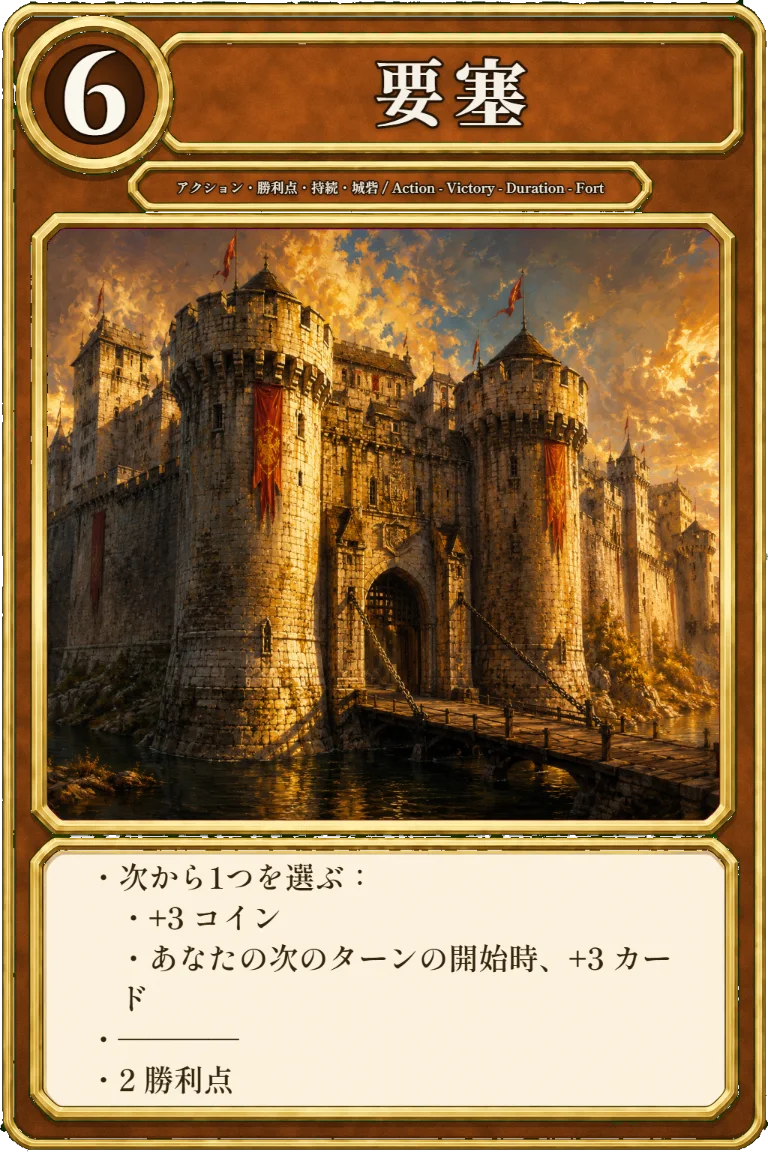
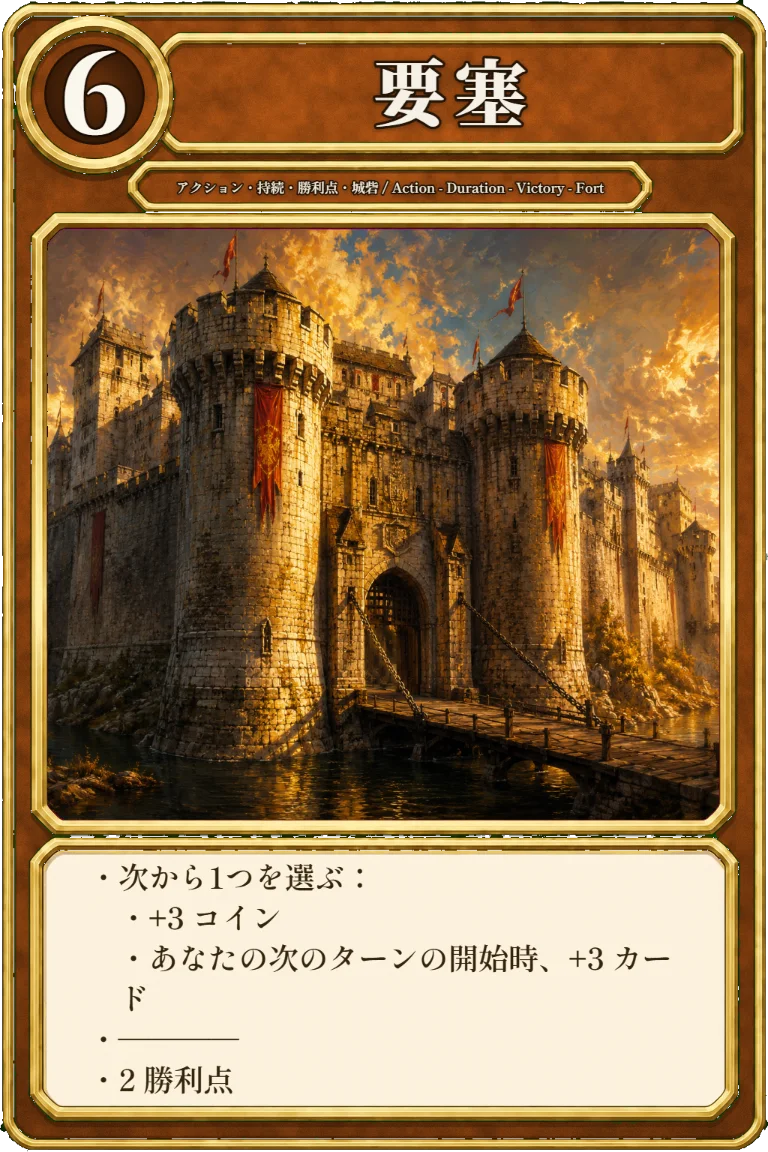
fix: §0-40 の宿題を完済（hoard の二重登録／メイソン団の2度目シャッフル／駿馬×長老／錬金術のセット名／要塞の種別順）
日本語名50件の統一（前コミット）に続き、§0-40「未対応」に積んでいた残り5件を全部片付けた。

1. **`hoard`（隠し財産）の二重登録を解消**＝`POOLS.promo` から外した。**繁栄のカードでプロモではない**ので
   `random-promo` と mix の抽選母集団に混ざっていた（13→12）。固定セット promo-pack / promo-events は
   kingdom に直書きなので従来どおり出る。

2. **`revealFromDeck` がメイソン団の「2度目のシャッフル禁止」を守っていなかった**
   （公式FAQ＝`you only shuffle one time, even if Order of Masons put some cards back in your discard pile.`）。
   `draw()` と同じ **`noMoreShuffle` 契約**に揃えた＝**農村／占い師／熟練工／山師・ペテン師／家臣 の7経路が同時に直る**。
   ⚠ 最初の回帰テストは**バグを戻しても緑のまま**だった（新旧で最終的な捨て札が同じになる組み方）。
     **好意の消費数（新1個／旧2個）とメイソン団のログ回数**で差が出る形に作り直し、バグ注入 2/2 検出を確認。

3. **駿馬(Courser)を長老(Elder)の対象にした**（公式＝英語wiki `Elder` の対象一覧に載る）。
   「異なる2つを選ぶ」カードなので**長老つきなら3つ**選べる＝engine の受理枚数・CPU の提案・
   UI の見出しと選択上限の**4面を同時に**直した（見出しが「2つ」のままだと人間が詰む）。バグ注入 3/3 検出。
   ⚠ 汎用の `ELDER_CHOICE_ORDER` は choose-**one** 用なので使えない＝自前 reducer に `pd.elder` を持たせた。

4. **`alchemy` の CARD_SET 表示名**＝「錬金術セット（第二版）」→「錬金術セット」（錬金術に第2版は無い）。

5. **要塞(Stronghold) の種別順**＝`['action','victory','duration','fort']` → `['action','duration','victory','fort']`
   （公式順）。表示が「アクション・持続・勝利点・城砦」になったので **webp を焼き直した**。

⚠ `harem` は **「ハーレム」のまま据え置き**と決めた。`Farm` は Dominion Online とドイツの別アート版だけで、
   Donald X. 逐語＝`someday it may replace Harem in Intrigue`＝**印刷版の陰謀はまだハーレム**
   （日本語wiki の陰謀の一覧も「ハーレム」）。本プロジェクトの「現行＝印刷済み最新」方針に従う。

検証: npm test 全50スイート緑（exit 0・整合性5859・同盟 514→523・未実装33種UI 110→115・新プロモ 165→167）／
ステージ済みツリー（Codex 差分抜き）でも全50スイート緑／CPUソーク 54ゲーム・23,395ステップ・問題0
[…]

diff --git a/js/cards.js b/js/cards.js
@@ -1096,7 +1096,7 @@
                  text: '+2 コイン\nこのターン、あなたがカード1枚を獲得するとき、ここにトークン1枚を加える。\nあなたの次のターンの開始時、この上のトークンをすべて取り除き、取り除いたトークン1枚につき +1 カード。' },
     hill_fort: { id: 'hill_fort', name: '堡塁', cost: 5, types: ['action', 'fort'],
                  text: 'コスト4以下のカード1枚を獲得する。次から1つを選ぶ：\n・それをあなたの手札に加える\n・+1 カード と +1 アクション' },
-    stronghold: { id: 'stronghold', name: '要塞', cost: 6, types: ['action', 'victory', 'duration', 'fort'], vp: 2,
+    stronghold: { id: 'stronghold', name: '要塞', cost: 6, types: ['action', 'duration', 'victory', 'fort'], vp: 2, // 公式の種別順＝Action-Duration-Victory-Fort
                  text: '次から1つを選ぶ：\n・+3 コイン\n・あなたの次のターンの開始時、+3 カード\n————\n2 勝利点' },
     // --- 叙事詩（odysseys）の分割山＝古地図$3→航海$4→沈没船の財宝$5→遠い海岸$6 ---
     odysseys: { id: 'odysseys', name: '叙事詩', cost: 3, types: ['action', 'odyssey'],
@@ -1827,20 +1827,23 @@
                'conspirator', 'ironworks', 'mining_village', 'torturer', 'duke', 'nobles', 'harem',
                'trading_post', 'upgrade', 'swindler', 'minion', 'masquerade'].concat(INTRIGUE_NEW_2E),
     // プロモ（6種）
-    promo: ['walled_village', 'envoy', 'governor', 'dismantle', 'black_market', 'hoard', 'stash', 'prince', 'captain', 'church', 'sauna', 'avanto', 'marchland'], // 境界地（2024年3月）＝段階2で合流
+    promo: ['walled_village', 'envoy', 'governor', 'dismantle', 'black_market', 'stash', 'prince', 'captain', 'church', 'sauna', 'avanto', 'marchland'], // 境界地（2024年3月）＝段階2で合流
+    //   ⚠ `hoard`（隠し財産）は**繁栄のカード**でプロモではない＝ここには入れない（`POOLS.prosperity` にある）。
+    //      固定セット promo-pack / promo-events は kingdom に直接書いているので従来どおり出る。
     // 海辺 第二版（27種）= 抽選母集団。「海辺セット」(固定10種)と「海辺から」(ランダム)が参照する。
     seaside: ['native_village', 'haven', 'lighthouse', 'warehouse', 'smugglers', 'lookout',
               'fishing_village', 'sea_chart', 'monkey', 'astrolabe', 'treasure_map', 'salvager',
               'cutpurse', 'caravan', 'island', 'sailor', 'tide_pools', 'bazaar', 'treasury',
               'outpost', 'tactician', 'merchant_ship', 'wharf', 'blockade', 'corsair', 'sea_witch', 'pirate'],
-    // 錬金術 第二版（王国カード12種）= 抽選母集団。「錬金術セット」(固定10種)と「錬金術から」(ランダム)が参照する。
+    // 錬金術（王国カード12種）= 抽選母集団。「錬金術セット」(固定10種)と「錬金術から」(ランダム)が参照する。
+    //   ⚠ 錬金術に**第2版は無い**（2010年の第1版のみ）＝表示名にも「第二版」と書かない。
     //   ポーション(potion)は王国カードではなく共通サプライ＝ここには入れない（potion 費用カードが場にあると
     //   initSupply が自動でポーション山を足す）。整合性テストは potion を呪い同様の共通カードとして扱う。
     alchemy: ['transmute', 'vineyard', 'herbalist', 'apothecary', 'scrying_pool', 'university',
               'alchemist', 'familiar', 'philosophers_stone', 'golem', 'apprentice', 'possession'],
     // 繁栄 第二版（王国カード25種）= 抽選母集団。「繁栄セット」(固定10種)と「繁栄から」(ランダム)が参照する。
     //   白金貨/植民地は王国カードではなく共通サプライ＝ここには入れない（繁栄の王国カードが場にあると
-    //   initSupply が自動で platinum/colony 山を足す）。hoard は元々プロモにもあるが本来は繁栄のカード。
+    //   initSupply が自動で platinum/colony 山を足す）。hoard は**繁栄のカード**＝プロモのプールには入れない。
     prosperity: ['anvil', 'watchtower', 'bishop', 'clerk', 'investment', 'monument', 'quarry', 'tiara',
                  'workers_village', 'charlatan', 'city', 'collection', 'crystal_ball', 'magnate', 'mint',
                  'rabble', 'vault', 'war_chest', 'grand_market', 'hoard', 'bank', 'expand', 'forge',
@@ -2025,7 +2028,7 @@
     { id: 'basic',           kind: 'standard', name: '王国基本セット（第二版）', kingdom: DOM.KINGDOM },
     { id: 'intrigue',        kind: 'standard', name: '陰謀セット（第二版）', kingdom: DOM.KINGDOM_INTRIGUE },
     { id: 'seaside',         kind: 'standard', name: '海辺セット（第二版）', desc: '持続カード・マット・追加ターン', kingdom: DOM.KINGDOM_SEASIDE },
-    { id: 'alchemy',         kind: 'standard', name: '錬金術セット（第二版）', desc: 'ポーション経済・ブドウ園・支配', kingdom: DOM.KINGDOM_ALCHEMY },
+    { id: 'alchemy',         kind: 'standard', name: '錬金術セット', desc: 'ポーション経済・ブドウ園・支配', kingdom: DOM.KINGDOM_ALCHEMY }, // ⚠ 錬金術に第2版は無い（2010年の第1版のみ）＝「（第二版）」と書かない
     { id: 'prosperity',      kind: 'standard', name: '繁栄セット（第二版）', desc: '勝利点トークン・植民地/白金貨', kingdom: DOM.KINGDOM_PROSPERITY },
     { id: 'cornucopia',      kind: 'standard', name: '収穫祭セット', desc: '賞品・災いカード・カードの多様性', kingdom: DOM.KINGDOM_CORNUCOPIA },
     { id: 'guilds',          kind: 'standard', name: 'ギルドセット', desc: '財源（コイントークン）・過払い', kingdom: DOM.KINGDOM_GUILDS },

diff --git a/test/missing33-ui.test.js b/test/missing33-ui.test.js
@@ -67,6 +67,7 @@ console.log('=== 第1バッチ：新 pending 10種にモーダルと押せる選
     { p: { type: 'coronet', stage: 'action', player: 0 }, jp: '宝冠（アクション）' },
     { p: { type: 'coronet', stage: 'treasure', player: 0 }, jp: '宝冠（財宝）' },
     { p: { type: 'courser', player: 0 }, jp: '駿馬' },
+    { p: { type: 'courser', player: 0, elder: true }, jp: '駿馬（長老つき＝3つ選ぶ）' },
     { p: { type: 'infirmary_trash', player: 0 }, jp: '診療所（廃棄）' },
     { p: { type: 'shop', player: 0 }, jp: '店' },
     { p: { type: 'farmhands_aside', player: 0 }, jp: '耕作者（脇に置く）' },
@@ -90,6 +91,20 @@ console.log('=== 第1バッチ：新 pending 10種にモーダルと押せる選
       ok(btns + chips > 0, row.jp + '：押せる選択肢が1つ以上ある（ボタン' + btns + '／チップ' + chips + '）');
     }
   });
+}
+
+/* 2026-08-24: 駿馬(Courser)は公式に長老(Elder)の対象＝長老つきなら「異なる3つ」を選ばせる。
+   見出しが「2つ」のままだと、人間は2つしか選べず engine が必ず拒否して詰む。 */
+{
+  const K = ['joust', 'ferryman', 'village', 'smithy', 'market', 'militia', 'moat', 'cellar', 'workshop', 'laboratory'];
+  const s = E.createInitialState(['あなた', '相手'], K.slice(), { startActive: 0 });
+  s.turn.phase = 'action'; s.turn.actions = 1;
+  s.pending = { type: 'courser', player: 0, elder: true };
+  showAs(s, 0);
+  const m = doc.querySelector('.modal');
+  ok(m && /異なる3つ/.test(m.textContent), '駿馬×長老：モーダルが「異なる3つを選ぶ」と出る');
+  const tiles = m ? m.querySelectorAll('.choose-tile') : [];
+  ok(tiles.length === 4, '選択肢は4つ（+2カード/+2アクション/+2コイン/銀貨4枚）実:' + tiles.length);
 }
 
 /* 任意の窓は**0枚選択のまま辞退できる**（§0-39 の田舎の村で踏んだ穴＝`allowZero:false` だと確定ボタンが無効のまま）。 */

diff --git a/js/engine.js b/js/engine.js
@@ -5516,11 +5516,12 @@
   function revealFromDeck(state, pi, pred) {
     const p = state.players[pi];
     const skipped = [];
-    let matched = null, guard = 0;
+    let matched = null, guard = 0, noMoreShuffle = false;
     while (guard++ < 300) {
       if (p.deck.length === 0) {
-        if (p.discard.length === 0) break;
-        reshuffleDeck(p);
+        // 同盟：メイソン団が捨て札に札を残したら **2度目のシャッフルをしない**（draw() と同じ契約）。
+        if (p.discard.length === 0 || noMoreShuffle) break;
+        noMoreShuffle = reshuffleDeck(p, state) === true;
       }
       if (p.deck.length === 0) break;
       const c = p.deck.shift();
@@ -9330,7 +9331,8 @@
       // 褒賞：宝冠（アクションとして使った場合＝財宝として出した場合も applyTreasureEffect から同じ入口）
       case 'coronet': { coronetStart(state, pi); break; }
       // 褒賞：駿馬＝異なる2つ（記載順に解決）
-      case 'courser': { state.pending = { type: 'courser', player: pi }; break; }
+      // 駿馬＝「異なる2つを選ぶ」。長老(Elder)で使わせたときは**1つ多く**選べる（公式：wiki Elder の対象一覧に Courser が載る）。
+      case 'courser': { state.pending = { type: 'courser', player: pi, elder: elderOn(state, 'courser') || undefined }; break; }
       // 褒賞：御料地＝+2アクション +2購入・金貨1枚（VP は vpOf）
       case 'demesne': {
         addActions(t, 2); t.buys += 2;
@@ -16735,7 +16737,7 @@
         const valid = ['cards', 'actions', 'coins', 'silver'];
         let ch = Array.isArray(action.choices) ? action.choices.filter((c) => valid.includes(c)) : [];
         ch = valid.filter((c) => ch.includes(c));
-        if (ch.length !== 2) return state;
+        if (ch.length !== (pd.elder ? 3 : 2)) return state;
         const pl = state.players[pd.player];
         state.pending = null;
         ch.forEach((c) => {

diff --git a/js/ui.js b/js/ui.js
@@ -3521,9 +3521,12 @@
     if (pd.type === 'coronet' && pd.stage === 'treasure') return modalSingleHand(p, '宝冠 — 2回使う財宝', '褒賞でない財宝カード1枚を2回使えます（使わなくてもよい）。',
       (id) => isTreasureNow(state, id) && !DOM.isType(id, 'reward') && DOM.engine.canPlayHandCard(state, pd.player, id), (card) => dispatch({ type: 'CORONET_CHOOSE', card }),
       { label: '使わない', on: () => dispatch({ type: 'CORONET_CHOOSE', card: null }) }, '2回使う');
-    if (pd.type === 'courser') return modalChooseN('駿馬 — 異なる2つを選ぶ', '次から異なる2つを選びます（記載順に解決）。', [
-      { v: 'cards', label: '+2 カード' }, { v: 'actions', label: '+2 アクション' }, { v: 'coins', label: '+2 コイン' }, { v: 'silver', label: '銀貨4枚を獲得' },
-    ], 2, (choices) => dispatch({ type: 'COURSER_RESOLVE', choices }));
+    if (pd.type === 'courser') {
+      const n = pd.elder ? 3 : 2;   // 長老(Elder)で使わせたときは1つ多く選べる
+      return modalChooseN('駿馬 — 異なる' + n + 'つを選ぶ', '次から異なる' + n + 'つを選びます（記載順に解決）。', [
+        { v: 'cards', label: '+2 カード' }, { v: 'actions', label: '+2 アクション' }, { v: 'coins', label: '+2 コイン' }, { v: 'silver', label: '銀貨4枚を獲得' },
+      ], n, (choices) => dispatch({ type: 'COURSER_RESOLVE', choices }));
+    }
     if (pd.type === 'infirmary_trash') return modalSingleHand(p, '診療所 — 廃棄（任意）', '手札からカード1枚を廃棄できます。', () => true,
       (card) => dispatch({ type: 'INFIRMARY_TRASH', card }), { label: '廃棄しない', on: () => dispatch({ type: 'INFIRMARY_TRASH', card: null }) }, '廃棄する');
     if (pd.type === 'shop') {

diff --git a/test/promo2.test.js b/test/promo2.test.js
@@ -53,7 +53,9 @@ console.log('=== 新プロモ: CARD_SET 昇格・現行エラッタ種別 ===');
 {
   ok(DOM.CARD_SETS.some((x) => x.id === 'promo2-pack' && x.kingdom.length === 10), 'promo2-pack 固定セットが10種で存在');
   ok(DOM.CARD_SETS.some((x) => x.id === 'random-promo' && (x.randomFrom || []).indexOf('promo') >= 0), 'random-promo がプロモプールを参照');
-  ok(DOM.POOLS.promo.length === 13, 'プロモプールは13種（2026-08-23 に境界地 marchland が合流）');
+  ok(DOM.POOLS.promo.length === 12, 'プロモプールは12種（境界地 marchland が合流／隠し財産 hoard は繁栄のカードなので外した）');
+  ok(!DOM.POOLS.promo.includes('hoard'), '隠し財産はプロモのプールに入っていない（本来は繁栄のカード）');
+  ok(DOM.POOLS.prosperity.includes('hoard'), '隠し財産は繁栄のプールにある');
   ok(DOM.CARDS.prince.types.join(',') === 'action,duration,command', '王子=アクション-持続-命令（現行エラッタ）');
   ok(DOM.CARDS.captain.types.join(',') === 'action,duration,command', '船長=アクション-持続-命令（2019エラッタ）');
   // 抽選の正規化: avanto はサウナに一本化される（分割山は1山ぶんの枠しか使わない）

diff --git a/js/cpu.js b/js/cpu.js
@@ -1995,8 +1995,11 @@
         const tre = p.hand.filter((c) => isTreasure(c) && !isType(c, 'reward') && okC(c)).sort((a, b) => (C()[b].coin || 0) - (C()[a].coin || 0))[0];
         return { type: 'CORONET_CHOOSE', card: tre || null };
       }
-      case 'courser':
-        return { type: 'COURSER_RESOLVE', choices: ['cards', p.hand.some((c) => isType(c, 'action')) ? 'actions' : 'coins'] };
+      case 'courser': {
+        // 長老(Elder)で使わせた駿馬は3つ選ぶ（engine が枚数ちょうどでないと拒否する＝engine受理⊇CPU提案）。
+        const two = ['cards', p.hand.some((c) => isType(c, 'action')) ? 'actions' : 'coins'];
+        return { type: 'COURSER_RESOLVE', choices: pd.elder ? ['cards', 'actions', 'coins'] : two };
+      }
       case 'infirmary_trash': {
         const junk = pickTrash(p.hand, 1)[0];
         return { type: 'INFIRMARY_TRASH', card: (junk && trashValue(junk) < 10) ? junk : null };

diff --git a/PROGRESS.md b/PROGRESS.md
@@ -2,6 +2,100 @@
 
 ---
 
+## 0-41. **日本語カード名の全数監査＝50件を公式へ統一 ＋ §0-40 の宿題を完済**（2026-08-24・未push・`sw.js` v90）
+
+§0-40 の「未対応」に積んでいた宿題を片付けた。**日本語名は「14件」と記録していたが、全844枚を機械照合したら
+実際は 50件**だった（PROGRESS の一覧は騎士2件・基本/陰謀/海辺/錬金術/繁栄/収穫祭/プロモ を監査していなかった）。
+
+### 監査の方法（次の拡張でもこのまま使える）
+- 日本語wiki（wikiwiki.jp/dominiondeck）の**拡張一覧ページ17枚を逐次取得**（`tools/jpwiki.py`。並列は 429 で全滅する）。
+  🛑 **ページ名が曖昧**＝`繁栄`／`移動動物園`／`同盟`／`略奪` は**同名のカードのページ**に飛ぶ。
+  正しい拡張ページは **`繁栄（拡張）` のように「（拡張）」付き**（生HTMLのサイドバーの href から確定した）。
+  `カードリスト` というページは存在しない。城8種は `城`、騎士10種は `騎士` の**サブページ**にある。
+- 突き合わせは **行完全一致**でやる。部分一致だと `収集`⊂`収集品`／`豊穣の角`⊂`豊穣の角笛`／
+  種別ラベル `略奪者`(Looter) が**偽陰性**になる（実際に3件取りこぼした）。
+- さらに **集合差を双方向で見る**（「wiki 側にしか無い名前」も出す）。片側だけだと**エイリアス**を見逃す＝
+  `minion` が「手先」で、それは実は `pawn` の公式名だった（`寵臣` が wiki 側に浮いていて発覚）。
+- 最後に **`DOM.CARDS`＋`DOM.LANDSCAPES` の同名重複を機械検出**する（0件になるまで直す）。
+
+### 🎯 直した50件（現在→公式）
+| 拡張 | 数 | 内容 |
+|---|---|---|
+| 基本 | 2 | 議会→**議事堂**／プラチナ貨→**白金貨** |
+| 陰謀 | 6 | 従者→**手先**(pawn)／手先→**寵臣**(minion)／寂れた村→**貧民街**／後宮→**ハーレム**／斥候→**偵察員**／秘密の小部屋→**秘密の部屋** |
+| 海辺 | 2 | 潮だまり→**潮溜り**／私掠船→**コルセア** |
+| 錬金術 | 2 | 薬剤師→**薬師**／徒弟→**弟子** |
+| **繁栄** | **12** | 物見やぐら→**望楼**／会計士→**書記**／投資→**出資**／ペテン師→**山師**／収集→**収集品**／水晶玉→**水晶球**／富豪→**有力者**／群衆→**大衆**／金庫室→**保管庫**／高級市場→**大市場**／溶鉱炉→**鍛造**／**王の宮廷→宮廷** |
+| 収穫祭 | 8 | 小村→**村落**／リメイク→**再建**／若き魔女→**魔女娘**／豊穣の角→**豊穣の角笛**／家臣団→**郎党**／頼もしい乗騎→**名馬**／宝冠→**王冠**(diadem)／小冠→**宝冠**(coronet) |
+| プロモ | 2 | 城壁のある村→**囲郭村**／使者→**公使** |
+| 異郷 | 9 | 策謀→画策／トンネル→坑道／何でも屋→よろずや／高貴な山賊→義賊／絹の道→シルクロード／交易商人→交易人／小道→進路／キャッシュ→埋蔵金／**役人→官吏** |
+| 暗黒時代 | 7 | 放浪者→浮浪者／探索者→採集者／旅の楽団→吟遊詩人／拾い屋→ゴミあさり／**略奪者→襲撃者**／サー・マーティン→**サー・マーチン**／サー・ヴァンダー→**サー・ヴァンデル** |
+
+**これで同名カードの重複4組がすべて解消した**（機械検出）＝
+役人＝bureaucrat/mandarin ／ 従者＝pawn/squire ／ 使者＝envoy/messenger ／ 投資＝investment/イベント invest。
+`marauder`「略奪者」は**種別ラベル Looter とも衝突**していた。`coronet`「小冠」は §0-40 で `diadem`「宝冠」との
+衝突回避に作った造語だったが、公式は **diadem＝王冠／coronet＝宝冠** なので両方直して解消した。
+
+### ⚠ 据え置き（別カード・別の意味が今もその名前）＝一括置換すると壊れる
+**squire＝従者／messenger＝使者／bureaucrat＝役人／イベント invest＝投資／種別 looter＝略奪者／
+lackeys＝追従者／技術用語の「キャッシュ」**。コメント・ログ・UI・テストの参照 **660行**は文脈キーワードで
+判定して追随させた（`sir_vander` のカード文「サー・ヴァンダーが廃棄」も修正）。
+`secret-schemes` のセット名「策謀コンボ」は一般語なので据え置き（`scheme` を含まないセット）。
+
+### 確度（我々の旧名が非公式であることの証明）
+**我々の繁栄の名前（王の宮廷・物見やぐら・金庫室…）は日本語wiki の全17ページに1度も出てこない**／
+逆に wiki 名（宮廷・望楼・保管庫…）は `cards.js` に1度も無い。`王の宮廷` / `物見やぐら` はページとしても **404**。
+＝別ソース（§0-31 が「当てにならない」と記録した**英語wiki の Japanese 行**）由来と判断した。
+**新しい拡張（帝国/夜想曲/ルネサンス/移動動物園/同盟/略奪/旭日/冒険）は0件＝すべて正しい**＝
+誤りは §0-31（2026-08-17）で「日本語名は日本語wiki が正本」と決める**前**に作った古い拡張に集中していた。
+
+### 🛑 【ユーザー決定・2026-08-24】`harem` は「ハーレム」のまま据え置く（Farm へ改名しない）
+§0-40 が「2023年3月に `Farm` へ改名され 2026年6月に印刷済み」と書いていたが、**一次資料では成立しない**：
+日本語wiki `ハーレム` の余談2＋Donald X. の逐語＝**Altenburger（ドイツの製造元）が別アート版を作り
+Dominion Online では 農場(Farm) に差し替え済み**だが、`someday it may replace Harem in Intrigue`＝
+**印刷版の陰謀はまだハーレム**（日本語wiki の陰謀の一覧も「ハーレム」）。本プロジェクトの方針
+「現行＝**印刷済み最新**＋公式エラッタ」と「日本語名は日本語wiki が正本」に従い**据え置き**。
+※採るなら name を「農場」にして webp を焼き直すだけ（1枚）。
+
+### ✅ §0-40 の宿題を同時に完済（5件）
+1. **`hoard`（隠し財産）の二重登録を解消**＝`POOLS.promo` から外した（**繁栄のカードでプロモではない**）。
+   `random-promo` と mix の母集団が 13→**12**。固定セット `promo-pack`／`promo-events` は kingdom に直書きなので従来どおり出る。
+2. **`revealFromDeck` がメイソン団の「2度目のシャッフル禁止」を守っていなかった**（公式FAQ＝`you only shuffle one time`）。
+   `draw()` と同じ **`noMoreShuffle` 契約**に揃えた＝**農村／占い師／熟練工／山師・ペテン師／家臣 の7経路が同時に直る**。
+   ⚠ 最初に書いた回帰テストは**バグを戻しても緑のまま**だった（新旧で最終的な捨て札が同じになる組み方をしていた）。
+   **好意の消費数**（新1個／旧2個）と**メイソン団のログ回数**で差が出る形に作り直して 2/2 検出を確認した。
+3. **駿馬(Courser)を長老(Elder)の対象にした**（公式＝英語wiki `Elder` の対象一覧に載る）。
+   「異なる2つを選ぶ」カードなので**長老つきなら3つ**選べる＝engine の受理枚数・CPU の提案・UI の見出しと選択上限の
+   **4面を同時に**直した（見出しが「2つ」のままだと人間は2つしか選べず engine が必ず拒否して詰む）。バグ注入 3/3 検出。
+   ⚠ 汎用の `ELDER_CHOICE_ORDER`（choose-**one** 用）は使えない＝駿馬は自前 reducer に `pd.elder` を持たせた。
+4. **`alchemy` の CARD_SET 表示名**＝「錬金術セット（第二版）」→**「錬金術セット」**（錬金術に第2版は無い＝2010年の第1版のみ）。
+5. **要塞(Stronghold) の種別の並び順**＝`['action','victory','duration','fort']` → **`['action','duration','victory','fort']`**（公式順）。
+   表示が「アクション・持続・勝利点・城砦」になった＝**カード文の行が変わるので webp を焼き直した**。
+
+### 検証
+- **`npm test` 全50スイート緑（exit 0・整合性5859・不変条件12）**＝同盟 514→**523**／未実装33種UI 110→**115**／新プロモ 165→**167**。
+- **バグ注入**＝メイソン団 2/2・駿馬×長老 3/3 で感度を確認。
+- **CPUソーク 54ゲーム・23,395ステップ・問題0**（cornguilds2e／random-cornguilds2e／allies／random-allies／
+  mix（収穫祭2版×同盟）／mix-all／seaside1e／prosperity1e／promo-events を 2〜4人）。
+- `verify:e2e` 9/9／`verify:visual` はみ出し0／**webp 51枚を焼き直し**（50枚はモンタージュで全枚目視＋要塞1枚）。`sw.js` v89→**v90**。
+- 🛑 **Codex が並走している** `css/style.css`・`js/ui.js`・`manifest.webmanifest`・`test/ui.test.js` は自分のコミットに混ぜていない
+  （`js/ui.js` は HEAD＋自分のブロックだけを `git hash-object -w`＋`git update-index --cacheinfo` で index に直書き＝
+  ステージ済みツリーを取り出して全50スイート緑を確認してからコミットした）。
+
+### 注意（次セッションが知らないと事故る・§0-41 固有）
+- **日本語名を触るときは一括置換しない**。`従者`(squire)／`使者`(messenger)／`役人`(bureaucrat)／`投資`(イベント invest)／
+  `略奪者`(種別 Looter)／`追従者`(lackeys) は**今もその名前が正しい別物**。技術用語の「キャッシュ」も巻き込む。
+- **`DOM.CARDS`＋`DOM.LANDSCAPES` の同名重複は0件が不変条件**。新しいカードを足したら必ず機械検査すること
+  （名前が重なるとカード一覧の全文検索・ログ・盤面の帯で2枚が区別できなくなる）。
+- **「山札を掘る」ループを新しく書いたら `noMoreShuffle` 契約に乗せる**
+  （`if (p.discard.length === 0 || noMoreShuffle) break; noMoreShuffle = reshuffleDeck(p, state) === true;`）。
+  素朴に `reshuffleDeck(p)` を呼ぶと、メイソン団／回避(Avoid) が残した札のために**同じ効果の中で何度もシャッフル**する。
+- **長老(Elder)の対象を増やすときは「choose-one か choose-two か」を見る**。choose-one は `ELDER_CHOICE_ORDER` に
+  1行足すだけだが、**駿馬のような choose-two は自前 reducer に `pd.elder` を持たせて必要枚数を +1 する**
+  （engine の受理枚数・CPU の提案枚数・UI の `modalChooseN` の n と見出し の4面を必ず同時に）。
+
+---
+
 ## 0-40. **全カード網羅性の監査＝公式との差分は「33種」と確定**（2026-08-22・未push・`sw.js` v82）
 
 **ユーザーのゴール＝「現在まで世の中に出ているカードをすべて実装する」**を受けて、
@@ -254,21 +348,15 @@ push の後に、本プロジェクトの標準である敵対レビューを回
   根治が要る（webp 再生成）。
   (e) **Baker は闇市場デッキに居ても開始時 +1財源**（2024RB 明記）＝`kingdom.includes('baker')` だけでは漏れる。
   (f) **`revealFromDeck`／`farming_village`／`fortune_teller` が「2度目のシャッフル禁止」（メイソン団）を守っていない**（mix-all 限定）。
-- **日本語名の誤り14件**（異郷9／暗黒時代5）＝いずれも id と効果は正しく **name だけ**が公式（ホビージャパン印刷版）と違う。
-  🛑 とくに **`mandarin` を「役人」と訳しており、基本の `bureaucrat`（公式訳が「役人」）と完全衝突**している
-  （カード一覧の全文検索・ログ・盤面の帯で2枚が区別できない）。公式＝官吏。
-  他＝坑道(tunnel)／画策(scheme)／進路(trail)／よろずや(jack_of_all_trades)／義賊(noble_brigand)／
-  シルクロード(silk_road)／交易人(trader)／埋蔵金(cache)／ゴミあさり(scavenger)／採集者(forager)／
-  吟遊詩人(wandering_minstrel)／襲撃者(marauder)／浮浪者(vagrant)。
-  ⚠ **PROGRESS 自身も「策謀」「採集者」と書いており内部で不統一**。
-  ⚠ **修正には webp の再生成が要る**（このPCのみ）＝旭日の絵入れとまとめてやるのが効率的。
-  ⚠ **日本語wiki で裏取りしてから直すこと**（英語wiki の Japanese 行は実物と食い違う＝§0-31 の記録）。
-- **`harem`（後宮）は2023年3月に `Farm` へ改名され 2026年6月に印刷済み**＝機能差ゼロだが名前と絵が違う。
-  本プロジェクトの方針「現行＝印刷済み最新＋公式エラッタ」に従うなら改名対象。日本語名は要裏取り。
-- **`hoard`（隠し財産）が `POOLS.promo` と `POOLS.prosperity` に二重登録**（公式では繁栄のカードでプロモではない）
-  ＝`random-promo` の抽選母集団に混ざる。
-- **`alchemy` の CARD_SET 表示名が「錬金術セット（第二版）」**だが錬金術に第2版は無い（2010年の第1版のみ）。
-- **要塞(Stronghold) の種別の並び順**が公式（Action-Duration-Victory-Fort）と違う（表示のみ）。
+- ✅ **【2026-08-24・§0-41 で完済】日本語名の誤り**＝**「14件」ではなく実際は50件**だった（騎士2件と
+  基本/陰謀/海辺/錬金術/繁栄/収穫祭/プロモ を監査していなかった）。全844枚を日本語wiki と行完全一致で
+  突き合わせて修正済み＝**同名カードの重複4組もすべて解消**（役人／従者／使者／投資）。詳細＝§0-41。
+- ✅ **【2026-08-24・据え置きと決定】`harem`（ハーレム）は改名しない**＝`Farm` は Dominion Online と
+  ドイツの別アート版だけで、**印刷版の陰謀はまだハーレム**（Donald X. 逐語＝`someday it may replace Harem in Intrigue`）。
+- ✅ **【2026-08-24・完済】`hoard` の二重登録を解消**＝`POOLS.promo` から外した（繁栄のカード）。母集団 13→12。
+- ✅ **【2026-08-24・完済】`alchemy` の CARD_SET 表示名**＝「錬金術セット（第二版）」→**「錬金術セット」**（錬金術に第2版は無い）。
+- ✅ **【2026-08-24・完済】要塞(Stronghold) の種別の並び順**＝`['action','duration','victory','fort']` に直した
+  （表示が「アクション・持続・勝利点・城砦」＝公式順になった）。**webp を焼き直し済み**。
 
 ---
 
@@ -3234,21 +3322,21 @@ mix を解禁すると、PROGRESS §6 / §0-10 に**「どの出荷 CARD_SET で
 - **探索（quest）は条件を満たさない選択肢も選べる**（公式：呪い1枚しかなくても「呪い2枚」を選べて、その1枚を捨てて金貨は得られない）＝engine は忠実に受理する。UIは「（金貨は得られません）」と明示して事故を防ぐ（選択肢は消さない）。
 
 
-最終更新: 2026-08-23 / branch `main`（最新は `git log` で確認）。
+最終更新: 2026-08-24 / branch `main`（最新は `git log` で確認）。
 
-**【現在地】§0-40＝未実装33種（海辺1版8／繁栄1版9／収穫祭＆ギルド2版14／プロモ2）を段階2で全部実装し昇格した＝
-Arcana 以外の公式全カード（縦型618＋横型227＝845枚）が実プレイ可能**
-（`sw.js` **v88**・**push 済み（2026-08-23・8コミット・`2708911..f0b7445`）＝本番反映を機械照合済み**＝Pages 38/38・Render 22/22）。
-- 段階2 第1〜3バッチ（§0-40 の各節）＋昇格。新セット7つ（`seaside1e`／`prosperity1e`／`cornguilds2e`／`promo-events`／`random-*` 3種）・
-  `random-1e` と mix-all と闇市場デッキの母集団が増えた。**新機構＝渡し守の山（サプライ外の王国山）／褒賞の山（2人各1・3人以上各2）／野盗の常設ルール**。
-- **出荷済みバグを7件修正**＝商人ギルド／財源の2018旧則（→2021）・王女の「場にある間」（→2022「このターン」）・ティアラ／収集の「場にある枚数」（→「このターン」）・
-  追跡者の `src`・遊牧民の野営地の2011文面（→2016「山札の上に獲得」）・パン屋×闇市場・借金／投機の捨て札トリガー順（第1バッチで発見）。
-- 検証＝`npm test` **全50スイート緑**（整合性5859・`missing33` 236＋UI 110・バグ注入 7/7・13/13・15/15 検出）／`verify:e2e` 9/9／`verify:visual` はみ出し0／
-  昇格7セット×3戦の CPU ソーク完走。
-- 🛑 **Codex が同じ作業ツリーで `css/style.css`・`js/ui.js`（絵文字→SVG）・`manifest.webmanifest`・`test/ui.test.js` を改修中**＝私のコミットは
-  「HEAD ＋ 自分のブロック」を `git hash-object -w`＋`git update-index --cacheinfo` で index に入れて分離している（`git apply --cached --unidiff-zero` は使わない）。
-- **次＝① 多エージェント敵対レビュー（6観点）＝**セッション上限で1度失敗したので再投入中**／② 正本の敵対検証が残した宿題（§0-40「未対応」＝日本語名14件・`harem`→Farm・`hoard` 二重登録・
-  `revealFromDeck` の2度目シャッフル・Courser×長老・Princess/Collection/Tiara の webp は済）／③ Arcana（データ未公開）。**
+**【現在地】§0-41＝日本語カード名の全数監査で50件を公式へ統一し、§0-40 の宿題（5件）を完済した**
+（`sw.js` **v90**・**未pushが2コミット**）。**Arcana 以外の公式全カード（縦型618＋横型227＝845枚）が実プレイ可能**で、
+**同名カードの重複は0件**（機械検査）。
+- 直前の §0-40（未実装33種の実装＋昇格＋敵対レビュー10件）は **2026-08-24 に push 済み＝本番は v89**
+  （Pages 8本 sha1 一致・マーカー11/11／Render 実 ws 23/23 ok）。
+- §0-41 で直したもの＝**日本語名50件**（繁栄12＝王の宮廷→宮廷 ほか／異郷9／暗黒時代7／陰謀6／収穫祭8／基本2／海辺2／錬金術2／プロモ2）
+  ＋ **`hoard` の二重登録**／**`revealFromDeck` の2度目シャッフル（メイソン団）**／**駿馬×長老**／
+  **錬金術セットの表示名**／**要塞の種別順**。webp 51枚を焼き直した。
+- 検証＝`npm test` **全50スイート緑**（整合性5859・同盟523・未実装33種UI 115・新プロモ167）／バグ注入 2/2・3/3／
+  CPUソーク 54ゲーム・23,395ステップ・問題0／`verify:e2e` 9/9／`verify:visual` はみ出し0。
+- 🛑 **Codex が同じ作業ツリーで `css/style.css`・`js/ui.js`（絵文字→SVG）・`manifest.webmanifest`・`test/ui.test.js` を改修中**＝
+  私のコミットは「HEAD ＋ 自分のブロック」を index に直書きして分離している（メモリ `codex-concurrent-commit-isolation`）。
+- **次＝① push（ユーザー確認）→ 本番照合／② 第18拡張 Arcana（カード名すら未公開＝着手不能）。**
 
 **【前回の現在地】§0-40＝「世の中に出ている全カード」との差分を監査＝残りは 33種 ＋ Arcana。旭日の絵50枚も回収済み**
 （`sw.js` **v83**・**push 済み（2026-08-22・46コミット・`892af1d..b747e80`）＝本番反映を機械照合済み**）。
